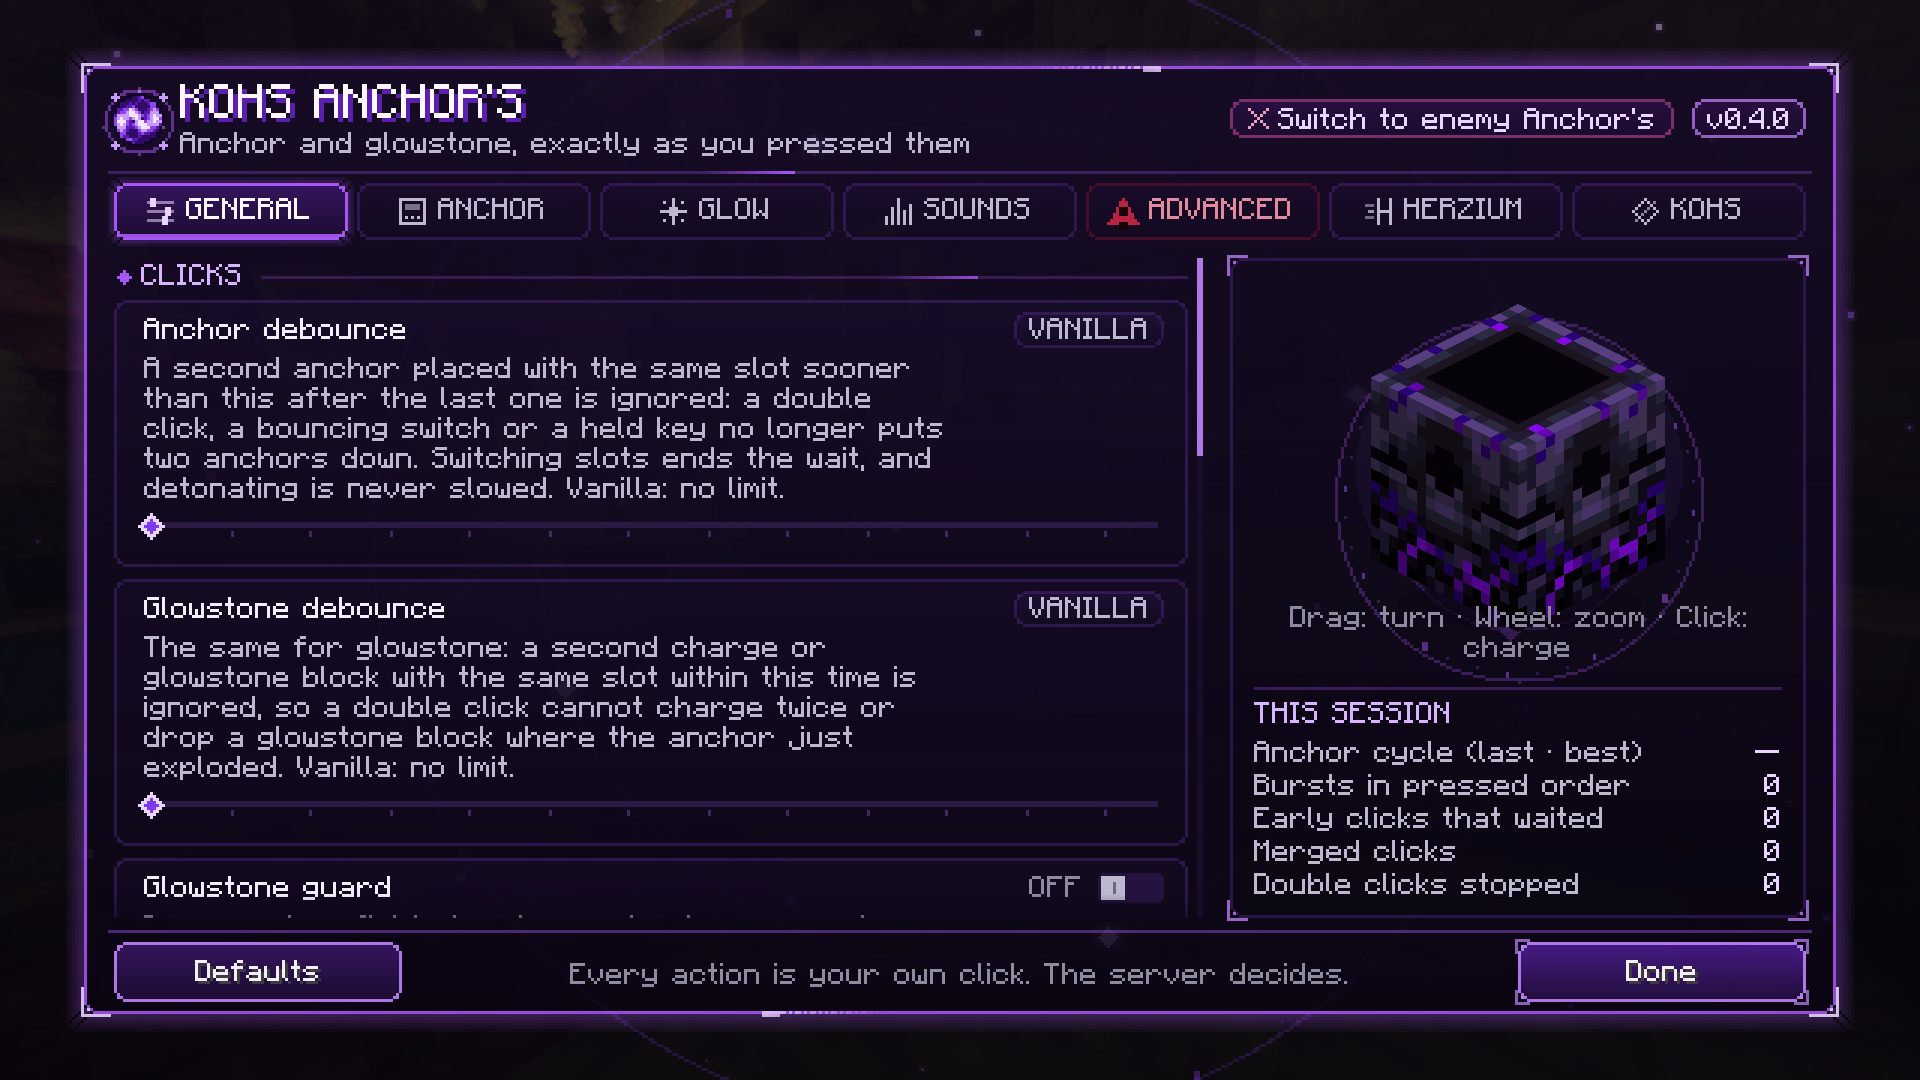
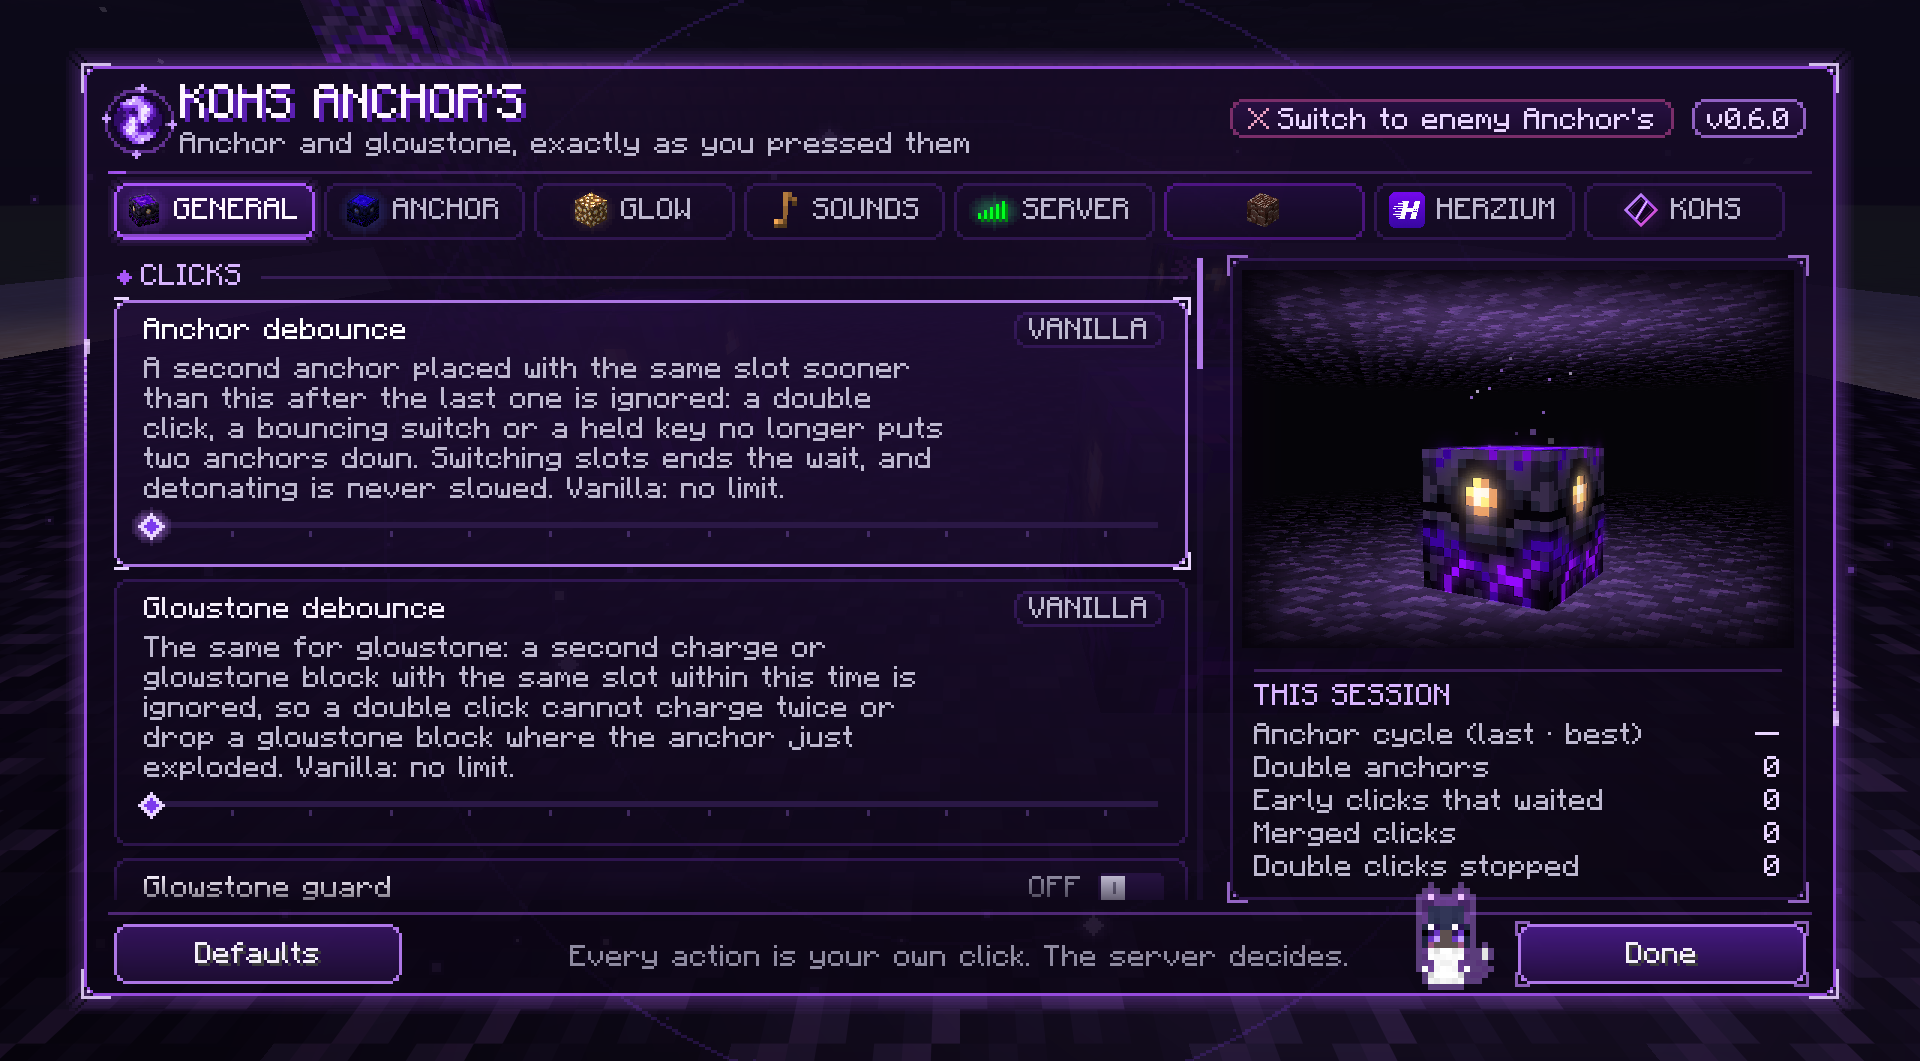
Galería al día con 0.6.0: las doce capturas con la interfaz actual (la sala de la vista previa, el glow por luz, las páginas de enemy anchors, Herzium y KoHs) y sus textos

diff --git a/README.md b/README.md
@@ -39,11 +39,11 @@ their own colour and pick the sounds you hear.
 | --- | --- |
 | ![The General tab of the settings screen](docs/images/gallery-general.png) | ![The anchor workshop: colours per layer and a pixel editor](docs/images/gallery-anchor-workshop.png) |
 | **General**: debounce, glowstone guard, detonation and what is always on. | **Anchor custom**: colour the frame and the glow, or paint them pixel by pixel. |
-| ![The Glow tab with the glowing anchor preview](docs/images/gallery-glow-tab.png) | ![An enemy anchor's glow lighting a pillar and a wall in red](docs/images/gallery-glow-pillar.jpg) |
+| ![The Glow tab with the anchor glowing in its room](docs/images/gallery-glow-tab.png) | ![An enemy anchor's glow lighting a pillar and a wall in red](docs/images/gallery-glow-pillar.jpg) |
 | **Glow anchors**: power, bloom, light on the surroundings and quality. | The light spreads through the air: down a pillar, onto the floor and the walls. |
-| ![What enemy anchors are, the first time](docs/images/gallery-enemy-intro.png) | ![The enemy anchors' Glow tab, in crimson](docs/images/gallery-enemy-page.png) |
+| ![What enemy anchors are, the first time](docs/images/gallery-enemy-intro.png) | ![The enemy anchors' Glow tab, in their colour](docs/images/gallery-enemy-page.png) |
 | **Enemy anchors**: yours and the other players', told apart at a glance. | Their side turns the whole screen red, with three tabs and their anchor as the world draws it. |
-| ![The enemy anchors' Colours tab](docs/images/gallery-enemy-colours.png) | ![Coming soon: an endless battle between your anchors and theirs](docs/images/gallery-enemy-battle.jpg) |
+| ![The enemy anchors' Skin tab: their own colours and pixels](docs/images/gallery-enemy-skin.png) | ![Coming soon: an endless battle between your anchors and theirs](docs/images/gallery-enemy-battle.jpg) |
 | **Colours**: the colour their anchors glow in. | **Advanced** is coming soon; until then your anchors and theirs fight it out with glowstone. |
 | ![The glowstone guard warning with the safe anchor clip](docs/images/gallery-glowstone-guard.jpg) | ![Herzium's orders explained, last input recommended](docs/images/gallery-herzium.png) |
 | **Glowstone guard** shows what it takes away, a safe anchor clip at 60 fps, before it turns on. | **Herzium**: its hotbar order, read from Herzium itself, and how the two mods talk. |

diff --git a/docs/README.md b/docs/README.md
@@ -22,8 +22,9 @@
 The lab images under `images/` come from the lab: the charts are drawn by `charts.py` and the lab
 screenshots by the lab client's `gallery.labscript`, both in
 [KoHs Debug Tools](https://github.com/kerlycanelita/KoHs-Debug-Tools-for-KoHs-Mods/tree/main/anchors-debug).
-The `gallery-*` images are 0.4.0 in a 26.2 development client at 1920 × 1080, GUI scale 3, with
-default settings.
+The `gallery-*` images are 0.6.0 in a 26.2 development client at 1920 × 1061, GUI scale 3, with
+default settings; enemy anchors are switched on for their pages, Herzium is installed for its
+window, and the glow is at 150 % in the two world shots.
 
 ## Source map
 
